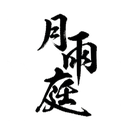
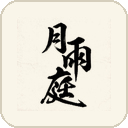
修图标可见性，并给游戏选项界面加设置入口
图标
- 之前把宣纸底抠成了透明，等于「黑字透明底」。ModMenu 的模组列表是深色面板，
  黑色书法在上面基本看不见，表现为图标不显示
- 改为浅米色圆角底板 + 黑色笔画，128x128，深浅背景下都清晰
- 路径写法核对过没问题：ModMenu 取 metadata.getIconPath()，
  默认值就是 assets/<modid>/icon.png，与本项目一致

设置入口
- 零前置版本没有 ModMenu 集成，模组列表里不会有「配置」按钮
- 新增 OptionsScreenMixin，在游戏「选项」界面左下角加「PVPTIER 榜单设置」按钮，
  不用记命令也能进设置界面
- Screen#addDrawableChild 是 protected，用 @Shadow 引出后调用

diff --git a/tools/make-icon.py b/tools/make-icon.py
@@ -1,13 +1,13 @@
 """由 modicon.jpg 生成 Fabric mod 图标 assets/ylctiertagger/icon.png。
 
-源图是米白宣纸底的黑墨书法，Fabric 的 mod 列表背景偏深，直接用会是一块米白色方块。
-这里把纸底抠成透明，按墨色强度生成 alpha，再做 un-premultiply 还原笔画本身的颜色。
+源图是米白宣纸底的黑墨书法。先按墨色强度把纸底抠成透明，再把黑色笔画放到一块
+浅色圆角底板上——直接用透明底黑字的话，ModMenu 的深色面板上根本看不见。
 
 用法：python tools/make-icon.py
 """
 
 import os
-from PIL import Image
+from PIL import Image, ImageDraw
 
 ROOT = os.path.dirname(os.path.dirname(os.path.abspath(__file__)))
 SRC = os.path.join(ROOT, "modicon.jpg")
@@ -16,7 +16,9 @@ OUT = os.path.join(ROOT, "src", "main", "resources", "assets", "ylctiertagger", 
 SIZE = 128          # Fabric mod 图标推荐尺寸
 PAPER = (253, 249, 237)   # 源图角落的纸色
 INK_LUM = 28.0            # 墨色亮度参考值
-PAD_RATIO = 0.06          # 裁剪后四周留白比例
+BOARD = (250, 245, 233)   # 底板颜色（宣纸色）
+GLYPH_H = 0.74            # 笔画高度占画布的比例
+CORNER = 18               # 底板圆角半径
 
 
 def luminance(r, g, b):
@@ -65,15 +67,24 @@ def main():
     if bbox:
         rgba = rgba.crop(bbox)
 
-    w, h = rgba.size
-    side = max(w, h)
-    pad = int(side * PAD_RATIO)
-    side += pad * 2
+    # 笔画按高度缩放，宽度等比
+    target_h = int(SIZE * GLYPH_H)
+    scale = target_h / rgba.size[1]
+    target_w = max(1, int(rgba.size[0] * scale))
+    glyph = rgba.resize((target_w, target_h), Image.LANCZOS)
 
-    canvas = Image.new("RGBA", (side, side), (0, 0, 0, 0))
-    canvas.paste(rgba, ((side - w) // 2, (side - h) // 2), rgba)
+    # 浅色底板，保证在深色面板上也能看清
+    canvas = Image.new("RGBA", (SIZE, SIZE), (0, 0, 0, 0))
+    draw = ImageDraw.Draw(canvas)
+    draw.rounded_rectangle([0, 0, SIZE - 1, SIZE - 1], radius=CORNER,
+                           fill=BOARD + (255,))
 
-    canvas = canvas.resize((SIZE, SIZE), Image.LANCZOS)
+    # 底板描一圈淡边，压住纸纹噪点
+    draw.rounded_rectangle([0, 0, SIZE - 1, SIZE - 1], radius=CORNER,
+                           outline=(214, 206, 188, 255), width=2)
+
+    canvas.alpha_composite(glyph, ((SIZE - target_w) // 2, (SIZE - target_h) // 2))
+
     os.makedirs(os.path.dirname(OUT), exist_ok=True)
     canvas.save(OUT, "PNG")
     print("已生成", OUT, canvas.size)

diff --git a/src/main/java/com/ylcmc/tiertagger/mixin/OptionsScreenMixin.java b/src/main/java/com/ylcmc/tiertagger/mixin/OptionsScreenMixin.java
@@ -1,0 +1,53 @@
+package com.ylcmc.tiertagger.mixin;
+
+import com.ylcmc.tiertagger.gui.ConfigScreen;
+import net.minecraft.client.MinecraftClient;
+import net.minecraft.client.gui.Drawable;
+import net.minecraft.client.gui.Element;
+import net.minecraft.client.gui.Selectable;
+import net.minecraft.client.gui.screen.option.OptionsScreen;
+import net.minecraft.client.gui.widget.ButtonWidget;
+import net.minecraft.text.Text;
+import org.spongepowered.asm.mixin.Mixin;
+import org.spongepowered.asm.mixin.Shadow;
+import org.spongepowered.asm.mixin.injection.At;
+import org.spongepowered.asm.mixin.injection.Inject;
+import org.spongepowered.asm.mixin.injection.callback.CallbackInfo;
+
+/**
+ * 在游戏选项界面左下角加一个设置入口。
+ *
+ * <p>模组是零前置的，没有 ModMenu 集成，所以给游戏自己的界面加一个入口，
+ * 免得玩家只能靠记命令。
+ */
+@Mixin(OptionsScreen.class)
+public abstract class OptionsScreenMixin {
+
+    private static final String BUTTON_LABEL = "PVPTIER 榜单设置";
+
+    /** Screen#addDrawableChild 是 protected，借 shadow 出来调用。 */
+    @Shadow
+    protected abstract <T extends Element & Drawable & Selectable> T addDrawableChild(T element);
+
+    @Inject(method = "init", at = @At("RETURN"))
+    private void ylcTierTaggerAddButton(CallbackInfo ci) {
+        OptionsScreen self = (OptionsScreen) (Object) this;
+
+        // 窗口尺寸变化会重新 init，避免重复添加
+        for (Element element : self.children()) {
+            if (element instanceof ButtonWidget button
+                    && BUTTON_LABEL.equals(button.getMessage().getString())) {
+                return;
+            }
+        }
+
+        this.addDrawableChild(ButtonWidget.builder(Text.of(BUTTON_LABEL), b -> {
+                    MinecraftClient client = MinecraftClient.getInstance();
+                    if (client != null) {
+                        client.setScreen(new ConfigScreen(Text.of(BUTTON_LABEL)));
+                    }
+                })
+                .dimensions(8, self.height - 28, 140, 20)
+                .build());
+    }
+}

diff --git a/README.md b/README.md
@@ -8,7 +8,8 @@
 - **进程启动时拉一次最新榜单**，进游戏后弹窗告知数据状态（成功显示人数，失败显示原因）
 - 数据取自 PVPTIER 榜单接口，另有本地缓存兜底，缓存写在 `config/ylc-tier-tagger/tier_cache.json`
 - **零前置**：只依赖 Fabric Loader，不需要 fabric-api、cloth-config 或任何其他模组
-- `/ylctier` 打开设置界面（自绘），`/ylctier refresh` 手动重拉，`/ylctier <玩家名>` 查看某人的段位
+- 设置界面有三个入口：游戏内 `/ylctier`、**游戏「选项」界面左下角的「PVPTIER 榜单设置」按钮**、ModMenu 之外的任何方式都不需要
+- `/ylctier refresh` 手动重拉，`/ylctier <玩家名>` 查看某人的段位
 
 ## 模式
 
